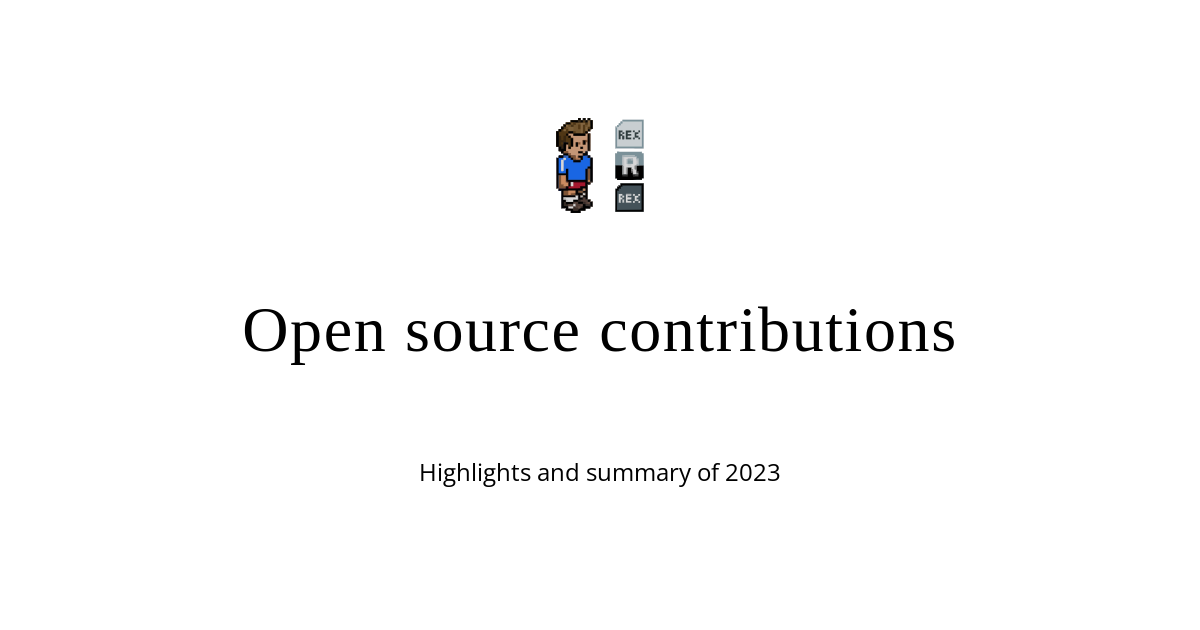
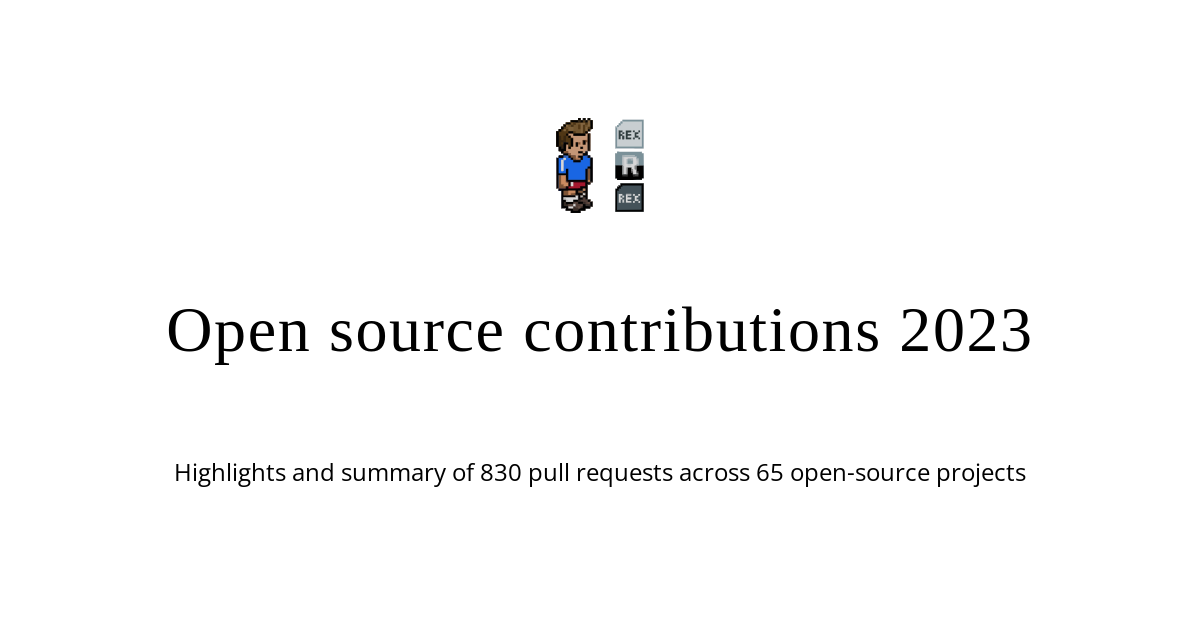
Update 2023-12-07-contribution-summary-2023.md (#106)

Changed region(s): [[0.1233, 0.4825, 0.8633, 0.573], [0.1542, 0.7238, 0.8633, 0.7841]]

diff --git a/_posts/2023-12-07-contribution-summary-2023.md b/_posts/2023-12-07-contribution-summary-2023.md
@@ -5,8 +5,8 @@ tags:
 image: "images/og-images/oss-contributions-summary-2023.jpg"
 
 ogImage:
-    title: "Open source contributions"
-    subtitle: "Highlights and summary of 2023"
+    title: "Open source contributions 2023"
+    subtitle: "Highlights and summary of 830 pull requests across 65 open-source projects"
     imageUrl: "https://staabm.github.io/staabm.svg"
     fileName: "oss-contributions-summary-2023"
 ---
@@ -105,6 +105,7 @@ Running Rector on huge projects in a single run was not possible in the past. Af
 Even huge projects like [the Mautic codebase can be refactored with Rector now](https://twitter.com/markusstaab/status/1700507324639588597) without out-of-memory issues.
 
 <img width="853" alt="grafik" src="https://github.com/rectorphp/rector-src/assets/120441/0f7b2448-4565-41bf-8d1b-897abfcad954">
+
 
 #### Highlight: phpstan-dba
 
